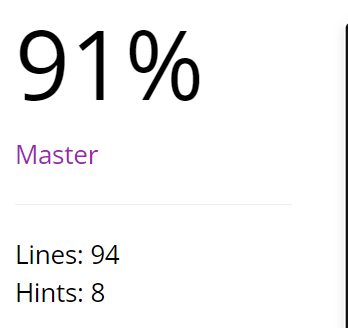
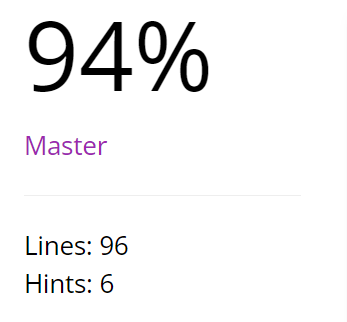
Added pep-8 compliance images for python files Added description for pep-8 compliance images in readme with breakdown of hints

diff --git a/README.md b/README.md
@@ -288,12 +288,119 @@ The login page was also assessed and returned the following, again this page was
 
 ## HTML
 The html parts of the website have been ran through validation software to ensure compliance with HTML standards on the web. You can see the reports below.
+### Home
+![Home HTML Validation](/cookbook/docs/testing/validators/html/home-html.png "Home HTML Validation")
+### Account
+![Account HTML Validation](/cookbook/docs/testing/validators/html/account-html.png "Account HTML Validation")
+### Admin
+![Admin HTML Validation](/cookbook/docs/testing/validators/html/admin-html.png "Admin HTML Validation")
+### Recipes
+![Recipes HTML Validation](/cookbook/docs/testing/validators/html/recipes-html.png "Recipes HTML Validation")
+### Add Recipe
+![Add Recipe HTML Validation](/cookbook/docs/testing/validators/html/add-recipe-html.png "Add Recipe HTML Validation")
+### Edit Recipe
+![Edit Recipe HTML Validation](/cookbook/docs/testing/validators/html/edit-recipe-html.png "Edit Recipe HTML Validation")
+### Expand Recipe
+#### Admin
+![Expand Admin HTML Validation](/cookbook/docs/testing/validators/html/expand-recipe-admin-html.png "Expand Admin HTML Validation")
+#### Non Admin
+![Expand Non Admin HTML Validation](/cookbook/docs/testing/validators/html/expand-recipe-html.png "Expand Non Admin HTML Validation")
+### Login
+![Login HTML Validation](/cookbook/docs/testing/validators/html/login-html.png "Login HTML Validation")
+### Sign Up
+![Sign Up HTML Validation](/cookbook/docs/testing/validators/html/signup-html.png "Sign Up HTML Validation")
+
 ## CSS
 The stylesheets were assessed using jigsaw to analyse CSS compliance with standard practises and returned the following.
+![CSS Validation](/cookbook/docs/testing/validators/css/styles-css.png "CSS Validation")
 ## JavaScript/jQuery
 The JavaScript/JQuery initialisation code was assessed using JSLint and returned the following.
+![JS Validation](/cookbook/docs/testing/validators/js/initialiser-js.png "JS Validation")
 ## Python
 The python code was ran through the validation software to ensure it is pep8 compliant and returned the following.
+### Init
+The init.py file returned 3 hints on validation, the hints were as follows:
+1. Put white spaces around the operators. 
+
+        app.register_blueprint(routes, url_prefix="/")
+
+2. Put white spaces around the operators.
+
+        app.register_blueprint(auth, url_prefix="/")
+
+3. Add two empty lines in front of function definition
+
+        @login_manager.user_loader
+
+        def load_user(id):
+        
+            return User.query.get(int(id))
+
+The whitespace hints refers to the slash for the url prefix
+
+The line hint is caused by to the decorator above the function
+
+![Auth Validation](/cookbook/docs/testing/validators/python/auth-pep8.png "Auth Validation")
+### Auth
+Auth file produced 6 hints in total for the following code snippets:
+1. Put white spaces around the operators
+2. Add two empty lines in front of function definition
+
+        @auth.route('/login', methods = ['GET', 'POST'])
+
+        def login():
+
+3. Put white spaces around the operators
+4. Add two empty lines in front of function definition
+
+        @auth.route('/logout')
+
+        @login_required
+
+        def logout():
+
+5. Put white spaces around the operators
+6. Add two empty lines in front of function definition
+
+        @auth.route('/signup', methods=['GET', 'POST'])
+
+        def signup():
+
+The whitespace hints refers to the slash before the route e.g "/login"
+
+The line hints are caused due to the decorator above the function
+
+![Auth Validation](/cookbook/docs/testing/validators/python/auth-pep8.png "Auth Validation")
+### Models
+The model evaluation returned 2 lines with hints, both lines returned were in regards to f strings returned by the model.
+
+![Models Validation](/cookbook/docs/testing/validators/python/models-pep8.png "Models Validation")
+### Routes
+The routes function also returned 2 hints on lines regarding the length of statements inside of if statements, see below:
+
+    if checkbox == 'on':
+
+            user_exists.is_admin = True
+
+            print(user_exists.first_name, user_exists.is_admin)
+
+            db.session.commit()
+
+            flash('User is now an admin', category="success")
+
+            return redirect(url_for('routes.admin'))
+
+The second if statements is as follows:
+
+    if admin.is_admin:
+
+            name = f"{admin.first_name} {admin.last_name}"
+
+            current_admin_names.append(name)
+
+            current_admin_names.sort()
+
+![Routes Validation](/cookbook/docs/testing/validators/python/routes-pep8.png "Routes Validation")
 </details>
 <details>
 <summary><b>Technologies Utilized</b></summary>
